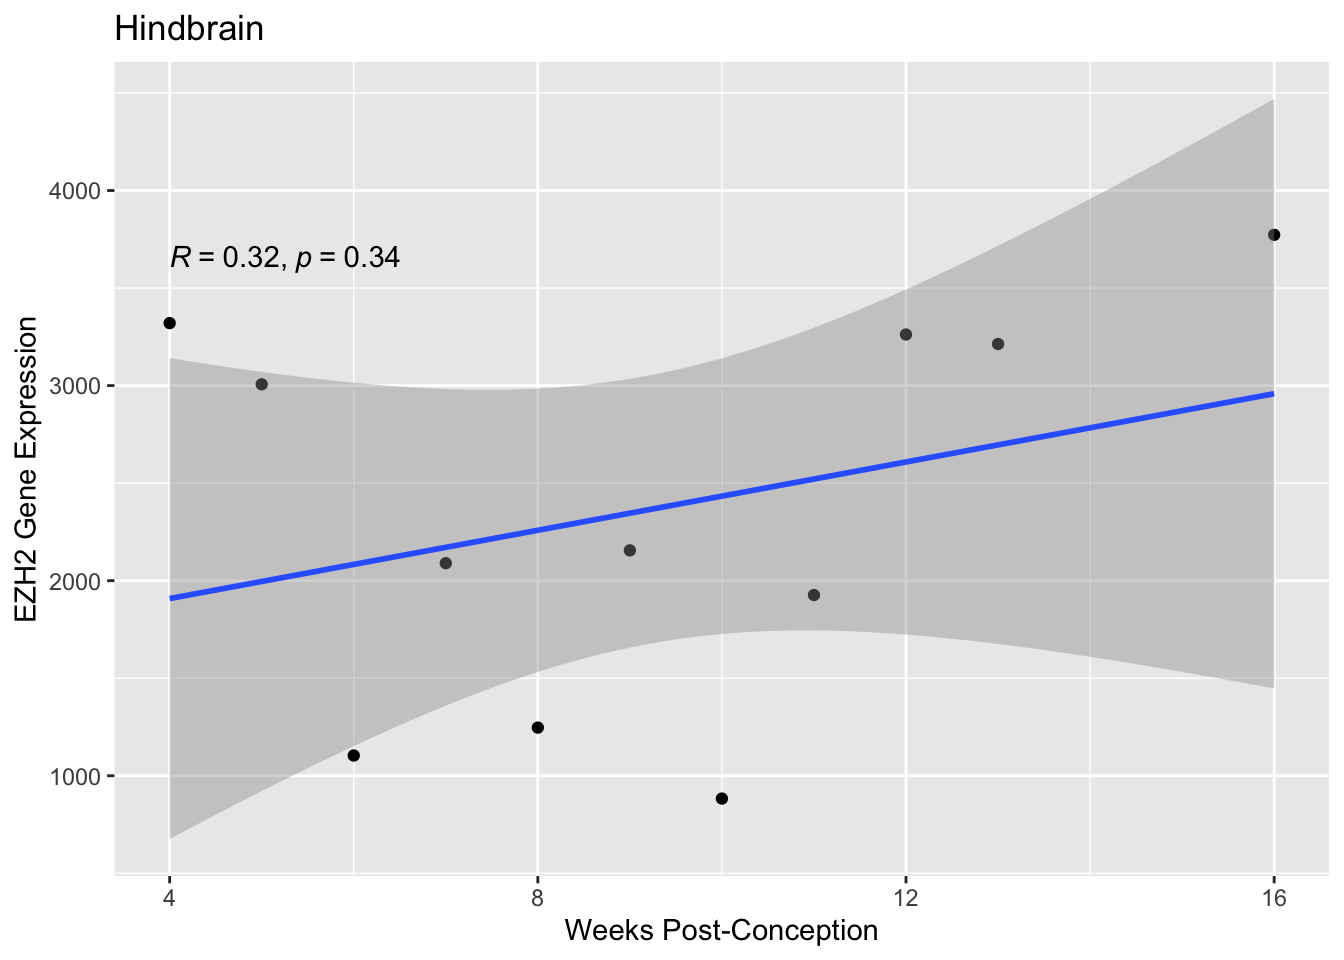
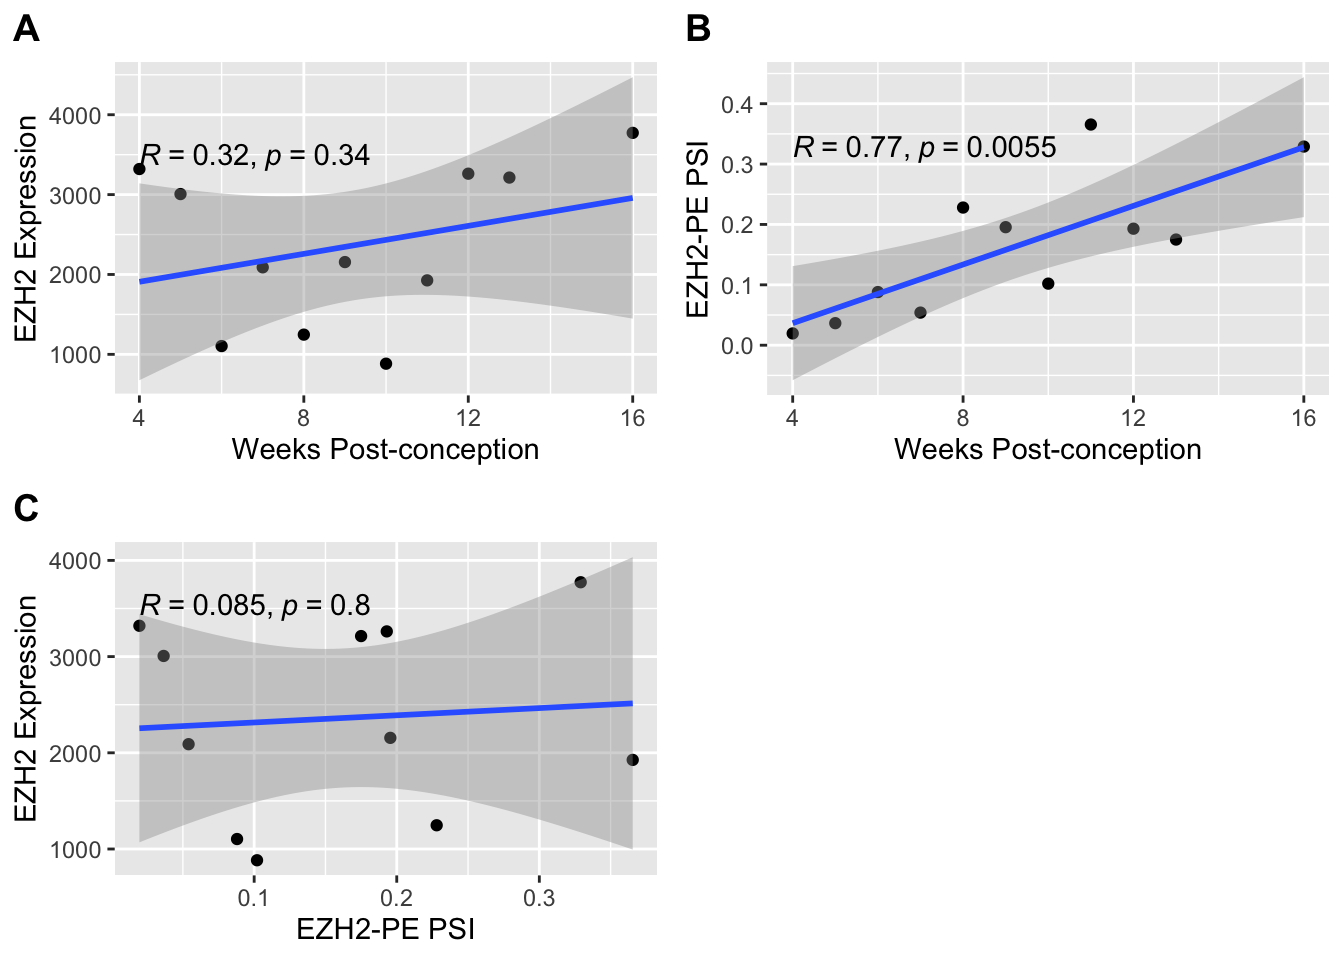
nice graphs

diff --git a/docs/index.html b/docs/index.html
@@ -341,42 +341,10 @@ div.tocify {
 
 <div id="hindbrain" class="section level1">
 <h1>Hindbrain</h1>
-<div id="psi-dev-time" class="section level2">
-<h2>PSI &amp; dev time</h2>
-<table>
-<tr>
-<td>
-<img src="hindbrain_psi_vs_time.jpeg">
-</td>
-</tr>
-</table>
-</div>
-<div id="gene-exp-dev-time" class="section level2">
-<h2>Gene exp &amp; dev time</h2>
 <p><img src="index_files/figure-html/unnamed-chunk-1-1.png" width="672" /></p>
-</div>
-<div id="gene-exp-psi" class="section level2">
-<h2>Gene exp &amp; PSI</h2>
-</div>
 </div>
 <div id="forebrain" class="section level1">
 <h1>Forebrain</h1>
-<div id="psi-dev-time-1" class="section level2">
-<h2>PSI &amp; dev time</h2>
-<table>
-<tr>
-<td>
-<img src="forebrain_psi_vs_time.jpeg">
-</td>
-</tr>
-</table>
-</div>
-<div id="gene-exp-dev-time-1" class="section level2">
-<h2>Gene exp &amp; dev time</h2>
-</div>
-<div id="gene-exp-psi-1" class="section level2">
-<h2>Gene exp &amp; PSI</h2>
-</div>
 </div>
 
 
